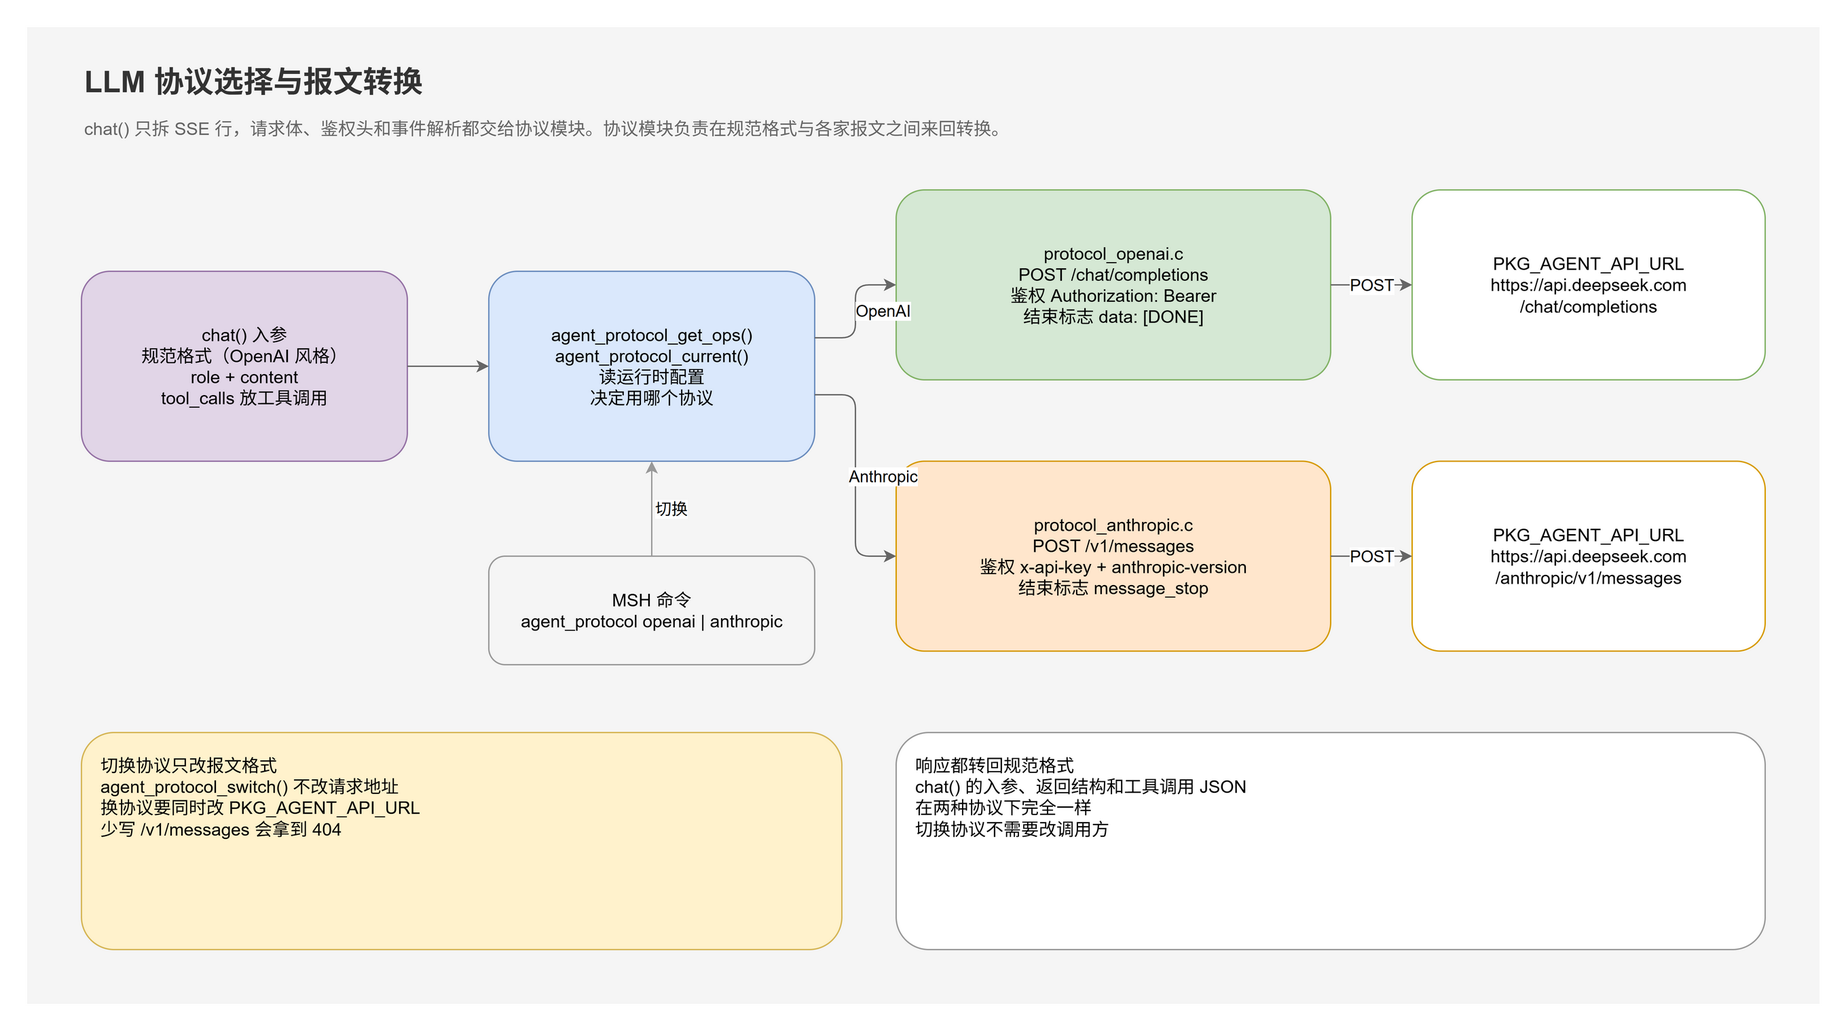
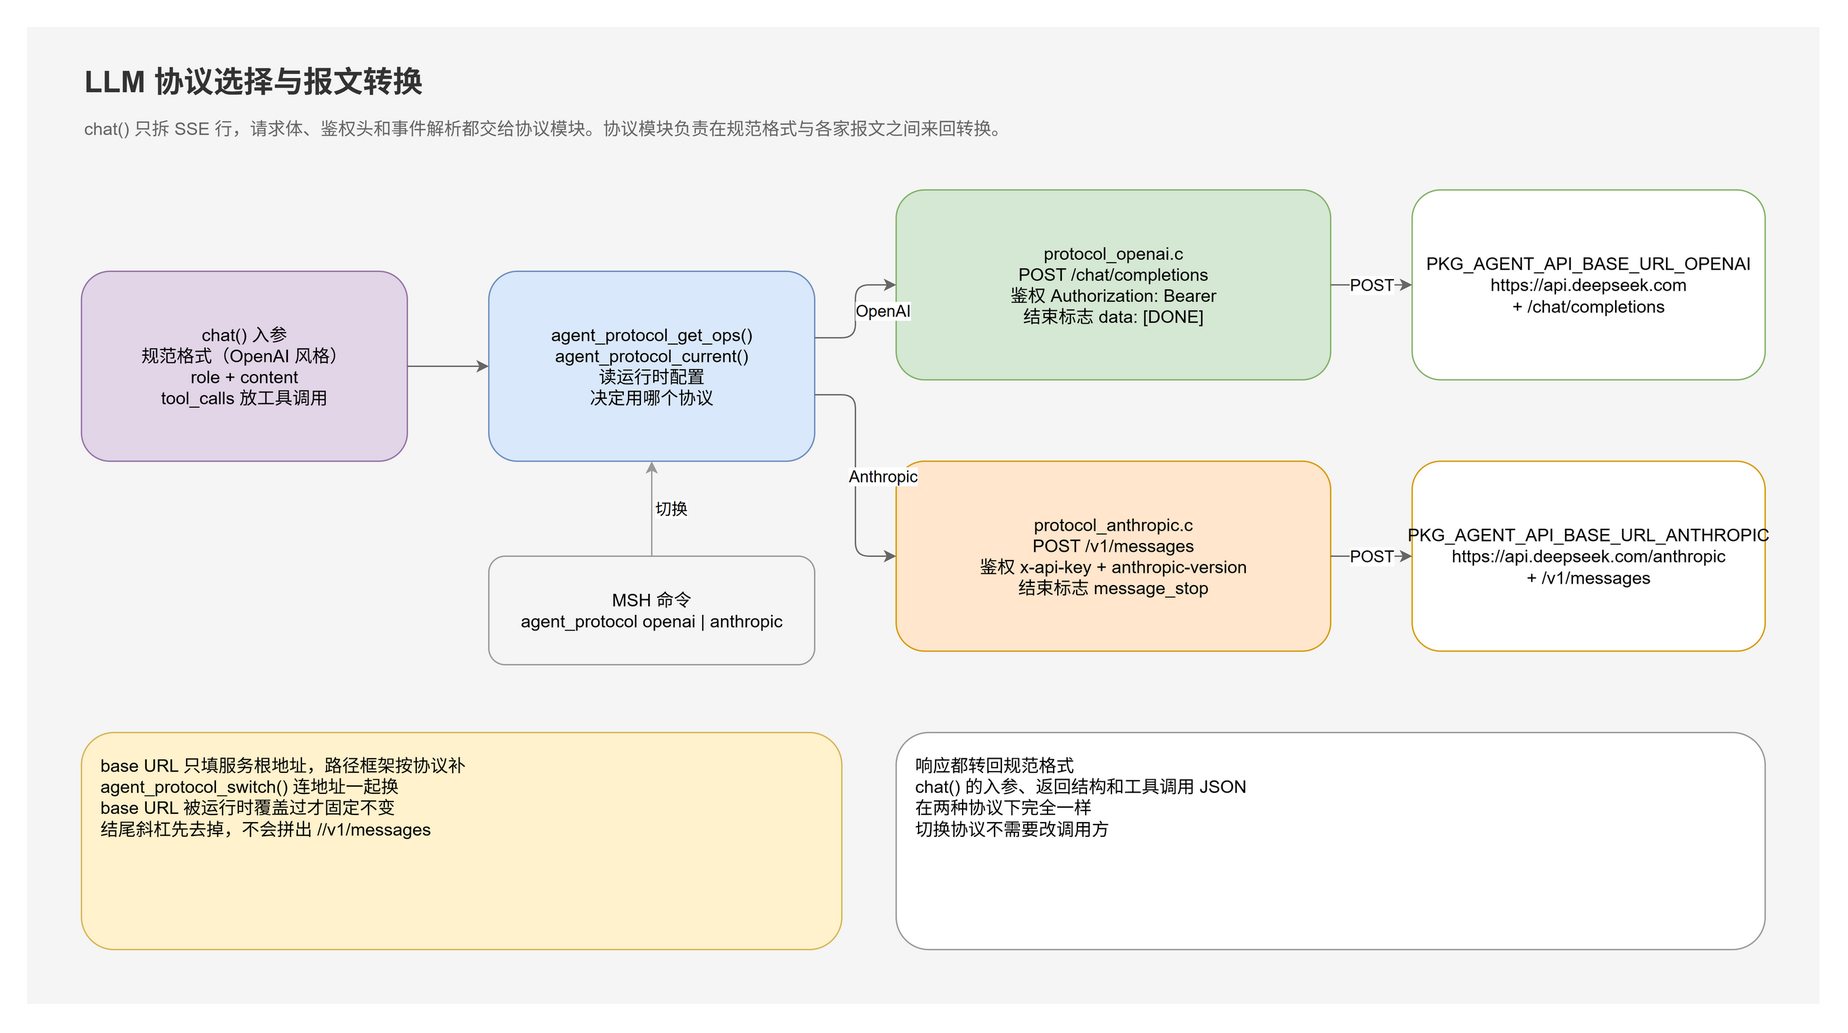
docs: 同步核心路径、两份 base_url 与菜单名
三处同步：

- 路径：文档里引用的 src/*.c 与 inc/*.h 改成 src/core/ 与 inc/core/，
  涵盖 README、api、framework、tool_device、tool_guide、tool_mqtt。
- 地址：README 与 api、framework 里「API URL 填完整端点」的写法换成
  两份 base URL，补上路径拼接表和切换协议时地址跟着换的说明；
  AgentConfig 一节补 get_dynamic_agent_base_url() 与
  get_dynamic_agent_request_url()。
- 菜单名：Agent Runtime Configuration 改成 Model & Endpoint，
  Audio tts Server Settings 改成 Multimodal → Speech → TTS，
  llm-protocol 图里的提示框同步。

README 快速上手第 2 节整段重写，去掉与「LLM 协议」一节重复的地址表。
两张图重新导出，validate_drawio.py 通过，autocorrect 无改动。

Changed region(s): [[0.0312, 0.7102, 0.2498, 0.8338], [0.7494, 0.4941, 0.968, 0.5867], [0.7807, 0.247, 0.9368, 0.3088]]

diff --git a/README.md b/README.md
@@ -25,22 +25,15 @@
 
 ### 2. 填接口地址与协议
 
-`Agent Runtime Configuration` 这一组要填三样东西：
+`Model & Endpoint` 这一组要填三样东西：
 
 | 配置项 | 说明 |
 |---|---|
 | API Key | 服务商的密钥 |
 | Model Name | 模型名，按服务商的写法填 |
-| API URL | 完整端点，域名加路径 |
+| base URL | 服务根地址，两种协议各一个 |
 
-API URL 填的是完整端点。两种协议各有一个地址，互不通用：
-
-| 协议 | API URL 填什么 |
-|---|---|
-| OpenAI | `https://api.deepseek.com/chat/completions` |
-| Anthropic | `https://api.deepseek.com/anthropic/v1/messages` |
-
-Anthropic SDK 的 base_url 是 `https://api.deepseek.com/anthropic`，那不是请求端点。SDK 会在后面补上 `/v1/messages`，板子直接发 HTTP，没有 SDK 这一层，路径要自己写全。少写 `/v1/messages` 会拿到 404。
+两种协议各有一个 base URL，只填域名加前缀，不带路径。OpenAI 默认 `https://api.deepseek.com`，Anthropic 默认 `https://api.deepseek.com/anthropic`，框架按协议补上 `/chat/completions` 或 `/v1/messages`。两个都填上，切协议时地址跟着换。拼出来的完整地址见[核心机制](#llm-协议)。
 
 协议在 `PKG_AGENT_API_PROTOCOL_SEL` 里选。选 Anthropic 时菜单会多出 `anthropic-version` 和 `max_tokens` 两项。
 
@@ -126,7 +119,7 @@ msh_agent_tts -o /a.wav 今天天气不错
 
 播放需要板上先注册音频设备。合成走的是同步等待，服务端没预热时首帧要等服务端把模型拉起来，实测冷启动 203 s，模型常驻后每句 2～3 s。服务端要先装配好推理链与音色权重，步骤见 [resource/file_server/README.md](resource/file_server/README.md) 第 11 节。
 
-想让每轮回复自动播报，在 `Audio tts Server Settings` 里打开 `Auto play the answer by voice`（`PKG_AGENT_TTS_AUTO_PLAY`）。它依赖 `PKG_AGENT_DRIVER_AUDIO`，默认关闭。打开后一条回复只发一次请求，服务端按 1.5 s 一帧往外发，后台线程收一帧播一帧，主循环不等待。兜底提示不发声。
+想让每轮回复自动播报，在 `Multimodal → Speech → TTS` 里打开 `Auto play the answer by voice`（`PKG_AGENT_TTS_AUTO_PLAY`）。它依赖 `PKG_AGENT_DRIVER_AUDIO`，默认关闭。打开后一条回复只发一次请求，服务端按 1.5 s 一帧往外发，后台线程收一帧播一帧，主循环不等待。兜底提示不发声。
 
 音频驱动与多模态开关相互独立。只使用录音、播放时，打开 `Enable Agent Driver Audio` 即可，但 BSP 需要先启用音频设备。
 
@@ -167,20 +160,20 @@ draw.io 源文件：[agent-fsm.drawio](./docs/diagrams/agent-fsm.drawio)
 
 | 组件 | 文件 | 职责 |
 |---|---|---|
-| AgentLoop | `src/AgentLoop.c` | 初始化、对话主循环、组装全局状态并启动状态机、清理 |
-| AgentFsm | `src/AgentFsm.c` | 工具调用状态机：决策、校验、执行、观察、护栏、收尾 |
-| Chat | `src/chat.c` | 发请求、拆 SSE 行；报文格式交给 `src/utils/protocol/` 下的协议模块 |
-| MessageHub | `src/MessageHub.c` | 双邮箱消息传递，支持超时接收 |
-| Context | `src/context.c` | 维护 system / user / assistant / tool 消息 |
-| Tool | `src/tool_base.c`、`src/tool_func.c` | 工具链表的注册、查找、执行与清理；模块表在 `src/utils/tool_json.c` |
+| AgentLoop | `src/core/AgentLoop.c` | 初始化、对话主循环、组装全局状态并启动状态机、清理 |
+| AgentFsm | `src/core/AgentFsm.c` | 工具调用状态机：决策、校验、执行、观察、护栏、收尾 |
+| Chat | `src/core/chat.c` | 发请求、拆 SSE 行；报文格式交给 `src/utils/protocol/` 下的协议模块 |
+| MessageHub | `src/core/MessageHub.c` | 双邮箱消息传递，支持超时接收 |
+| Context | `src/core/context.c` | 维护 system / user / assistant / tool 消息 |
+| Tool | `src/core/tool_base.c`、`src/core/tool_func.c` | 工具链表的注册、查找、执行与清理；模块表在 `src/utils/tool_json.c` |
 | Channels | `src/channels/` | CLI、WebNet、Debug 通道实现 |
-| AgentConfig | `src/AgentConfig.c` | 编译期默认值与运行时配置 |
+| AgentConfig | `src/core/AgentConfig.c` | 编译期默认值与运行时配置 |
 | Utils | `src/utils/` | 多模态转换、文件上传下载、STT 与 TTS、文本注入、webclient 超时封装 |
 | AgentAudio | `src/driver/audio/AgentAudio.c` | 播放与录音命令封装 |
 | MQTT | `src/tools/tool_mqtt/` | MQTT 连接、订阅、过滤、规则与历史缓存 |
 | Device | `src/tools/tool_device/` | 设备框架工具，通用层 7 个工具加 8 个设备类模块，各模块自己登记到 `src/utils/tool_json.c` 的模块表 |
 | MCP | `src/tools/tool_mcp/` | MCP 客户端：握手、取远端工具表、把远端工具注册进 agent 工具表 |
-| Skill | `src/skill.c`、`src/tools/tool_skill.c` | 内嵌技能注册表、技能目录与加载工具 |
+| Skill | `src/core/skill.c`、`src/tools/tool_skill.c` | 内嵌技能注册表、技能目录与加载工具 |
 
 ### 目录结构
 
@@ -204,18 +197,16 @@ draw.io 源文件：[agent-fsm.drawio](./docs/diagrams/agent-fsm.drawio)
 
 对话层支持两种报文格式，实现放在 `src/utils/protocol/`，按协议一个文件：
 
-| 协议 | 端点地址 | 鉴权 | 结束标志 |
-|---|---|---|---|
-| OpenAI | `https://api.deepseek.com/chat/completions` | `Authorization: Bearer` | `data: [DONE]` |
-| Anthropic | `https://api.deepseek.com/anthropic/v1/messages` | `x-api-key` 与 `anthropic-version` | `message_stop` 事件 |
+| 协议 | base URL 选项 | 默认值 | 补的路径 | 鉴权 | 结束标志 |
+|---|---|---|---|---|---|
+| OpenAI | `PKG_AGENT_API_BASE_URL_OPENAI` | `https://api.deepseek.com` | `/chat/completions` | `Authorization: Bearer` | `data: [DONE]` |
+| Anthropic | `PKG_AGENT_API_BASE_URL_ANTHROPIC` | `https://api.deepseek.com/anthropic` | `/v1/messages` | `x-api-key` 与 `anthropic-version` | `message_stop` 事件 |
 
-`PKG_AGENT_API_URL` 要填上表里的完整地址。换成别家服务商时，地址、鉴权头和模型名一起改。
-
-Anthropic 的地址多一段路径。SDK 的 base_url 是 `https://api.deepseek.com/anthropic`，SDK 自己补 `/v1/messages`；板子发的是裸 HTTP，路径要写全。
+菜单里填的是服务根地址，不含路径。默认值加上补的路径就是实际请求地址，base URL 结尾的斜杠会先去掉，不会拼出 `//v1/messages`。换成别家服务商时，base URL、鉴权头和模型名一起改。
 
 上下文里的消息统一存 OpenAI 风格的规范格式，协议模块负责转成各自的报文，解析时再转回来，所以两种协议下 `chat()` 的入参、返回结构和工具调用 JSON 完全一样。
 
-菜单里的 `PKG_AGENT_API_PROTOCOL_SEL` 决定默认协议，运行中用 MSH 命令 `agent_protocol openai` 或 `agent_protocol anthropic` 切换，改完下一轮请求就按新协议拼包。这个命令不改地址，切换后要自己把 `PKG_AGENT_API_URL` 换成对应协议的端点。
+菜单里的 `PKG_AGENT_API_PROTOCOL_SEL` 决定默认协议，运行中用 MSH 命令 `agent_protocol openai` 或 `agent_protocol anthropic` 切换，改完下一轮请求就按新协议拼包。base URL 没被运行时覆盖过时，切协议会跟着换用另一份 Kconfig base URL；覆盖过就固定用覆盖值。
 
 ![LLM 协议选择与报文转换](./docs/diagrams/llm-protocol.png)
 
@@ -318,7 +309,8 @@ menuconfig 路径是 Agent 包 → `Agent Tool: Device Framework`。内核条件
 
 | 选项 | 说明 |
 |---|---|
-| `PKG_AGENT_API_KEY` / `PKG_AGENT_MODEL_NAME` / `PKG_AGENT_API_URL` | 默认 API 配置，可在运行时覆盖。URL 填完整端点，OpenAI 用 `https://api.deepseek.com/chat/completions`，Anthropic 用 `https://api.deepseek.com/anthropic/v1/messages` |
+| `PKG_AGENT_API_KEY` / `PKG_AGENT_MODEL_NAME` | 默认 API 配置，可在运行时覆盖 |
+| `PKG_AGENT_API_BASE_URL_OPENAI` / `PKG_AGENT_API_BASE_URL_ANTHROPIC` | 两种协议的服务根地址，默认 `https://api.deepseek.com` 与 `https://api.deepseek.com/anthropic`，不含路径 |
 | `PKG_AGENT_API_PROTOCOL_SEL` | 协议选择，OpenAI 或 Anthropic，默认 OpenAI；运行中可用 `agent_protocol` 命令切换，只改报文格式不改地址 |
 | `PKG_AGENT_ANTHROPIC_VERSION` | Anthropic 的 `anthropic-version` 请求头，默认 `2023-06-01`；仅在菜单选中 Anthropic 时显示 |
 | `PKG_AGENT_ANTHROPIC_MAX_TOKENS` | Anthropic 请求的 `max_tokens` 上限，默认 4096；仅在菜单选中 Anthropic 时显示 |

diff --git a/docs/api.md b/docs/api.md
@@ -22,7 +22,7 @@
 
 ## 1. MessageHub：消息中心与消息数组
 
-头文件：`inc/MessageHub.h` 实现：`src/MessageHub.c`
+头文件：`inc/core/MessageHub.h` 实现：`src/core/MessageHub.c`
 
 ### 1.1 类型
 
@@ -113,18 +113,18 @@ typedef struct MessageHub
 
 ## 2. Chat：LLM 通信
 
-头文件：`inc/chat.h` 实现：`src/chat.c`
+头文件：`inc/core/chat.h` 实现：`src/core/chat.c`
 
 `chat.c` 只处理 HTTP 与 SSE 行拆分，请求体、鉴权头和事件解析都交给协议模块，位置在 `src/utils/protocol/`，统一入口 `inc/utils/protocol.h`。当前协议决定报文格式，切换接口见 2.3。
 
-请求地址填在 `PKG_AGENT_API_URL`。两种协议的地址不一样，板子直接发 HTTP，路径要写全：
+请求地址由「服务根地址 + 协议路径」拼出来。菜单里填两个 base URL，路径框架自己接：
 
-| 协议 | `PKG_AGENT_API_URL` 填什么 |
-|---|---|
-| OpenAI | `https://api.deepseek.com/chat/completions` |
-| Anthropic | `https://api.deepseek.com/anthropic/v1/messages` |
+| 协议 | Kconfig 里的 base URL | 框架补的路径 | 实际请求地址 |
+|---|---|---|---|
+| OpenAI | `PKG_AGENT_API_BASE_URL_OPENAI`，默认 `https://api.deepseek.com` | `/chat/completions` | `https://api.deepseek.com/chat/completions` |
+| Anthropic | `PKG_AGENT_API_BASE_URL_ANTHROPIC`，默认 `https://api.deepseek.com/anthropic` | `/v1/messages` | `https://api.deepseek.com/anthropic/v1/messages` |
 
-Anthropic SDK 的 base_url 是 `https://api.deepseek.com/anthropic`，那不是请求端点。SDK 会在后面补上 `/v1/messages`，板子没有 SDK 这一层。少写这段路径，服务端返回 404。
+`get_dynamic_agent_request_url()` 负责拼接，base URL 结尾的斜杠会先去掉，避免拼出 `//v1/messages`。运行时没有覆盖过 base URL 时，切换协议会跟着换用另一份 base URL；一旦通过 `agent_config_set()` 覆盖过，就固定用覆盖值，切协议不再自动换。
 
 ### 2.1 类型
 
@@ -184,7 +184,7 @@ typedef struct ChatResponse
 
 `agent_api_protocol_t` 有两个值：`AGENT_API_PROTOCOL_OPENAI` 与 `AGENT_API_PROTOCOL_ANTHROPIC`。
 
-`agent_protocol_switch()` 只改报文格式，不改请求地址。切成 Anthropic 之后，`PKG_AGENT_API_URL` 还得换成 `https://api.deepseek.com/anthropic/v1/messages`，否则请求会打到 OpenAI 的路径上。
+`agent_protocol_switch()` 改报文格式，也换请求地址：base URL 没被运行时覆盖过时，会跟着切到另一份 Kconfig base URL。已经用 `agent_config_set()` 覆盖过 base URL 的话，地址就固定在覆盖值上，切协议只换报文格式。
 
 消息在上下文里一律存规范格式，也就是 OpenAI 风格。协议模块负责转成自己的报文，解析时转回规范格式，因此两种协议下 `chat()` 的入参、返回结构和工具调用 JSON 完全一致，切换协议不需要改调用方。
 
@@ -192,7 +192,7 @@ Anthropic 报文与规范格式的对应关系见 [framework.md](./framework.md)
 
 ## 3. Context：上下文管理器
 
-头文件：`inc/context.h` 实现：`src/context.c`
+头文件：`inc/core/context.h` 实现：`src/core/context.c`
 
 ### 3.1 类型
 
@@ -264,7 +264,7 @@ typedef struct Context
 
 ## 4. Tool：工具系统
 
-头文件：`inc/tool_base.h`、`inc/tool_func.h`、`inc/utils/tool_json.h` 实现：`src/tool_base.c`、`src/tool_func.c`、`src/utils/tool_json.c`、`src/tools/*`
+头文件：`inc/core/tool_base.h`、`inc/core/tool_func.h`、`inc/utils/tool_json.h` 实现：`src/core/tool_base.c`、`src/core/tool_func.c`、`src/utils/tool_json.c`、`src/tools/*`
 
 ### 4.1 类型
 
@@ -422,7 +422,7 @@ typedef struct AgentToolList
 
 ### 4.7 Agent 运行时访问器
 
-头文件：`inc/AgentRuntime.h`
+头文件：`inc/core/AgentRuntime.h`
 
 | 函数 | 说明 |
 |---|---|
@@ -726,14 +726,14 @@ typedef struct
 
 ## 8. AgentConfig：运行时配置
 
-头文件：`inc/AgentConfig.h`，实现：`src/AgentConfig.c`
+头文件：`inc/core/AgentConfig.h`，实现：`src/core/AgentConfig.c`
 
 ```c
 typedef struct agent_runtime_config
 {
     char api_key[AGENT_CFG_API_KEY_MAX];
     char model_name[AGENT_CFG_MODEL_MAX];
-    char api_url[AGENT_CFG_API_URL_MAX];
+    char base_url[AGENT_CFG_BASE_URL_MAX];
     agent_api_protocol_t protocol;
     rt_bool_t is_configured;
 } rt_align(RT_ALIGN_SIZE) agent_runtime_config_t;
@@ -742,10 +742,11 @@ typedef struct agent_runtime_config
 | 函数 | 说明 |
 |---|---|
 | `agent_runtime_config_t *agent_config_get(void)` | 取静态配置指针 |
-| `void agent_config_set(const char *api_key, const char *model_name, const char *api_url)` | 热更新配置，参数可为 `RT_NULL` |
+| `void agent_config_set(const char *api_key, const char *model_name, const char *base_url)` | 热更新配置，参数可为 `RT_NULL` |
 | `const char *get_dynamic_agent_api_key(void)` | 优先返回运行时值，否则返回 `PKG_AGENT_API_KEY` |
 | `const char *get_dynamic_agent_model_name(void)` | 同上，回退 `PKG_AGENT_MODEL_NAME` |
-| `const char *get_dynamic_agent_api_url(void)` | 同上，回退 `PKG_AGENT_API_URL` |
+| `const char *get_dynamic_agent_base_url(void)` | 同上，回退当前协议对应的 `PKG_AGENT_API_BASE_URL_*` |
+| `const char *get_dynamic_agent_request_url(void)` | base URL 加协议路径，见第 2 节的拼接表。返回内部静态缓冲，同一时刻只供一个请求线程用 |
 | `agent_api_protocol_t get_dynamic_agent_api_protocol(void)` | 当前协议，默认取 `PKG_AGENT_API_PROTOCOL_SEL` 选中的那个 |
 | `void agent_config_set_protocol(agent_api_protocol_t protocol)` | 切换协议 |
 
@@ -755,7 +756,7 @@ typedef struct agent_runtime_config
 
 ## 9. Prompt：系统提示词
 
-头文件：`inc/prompt.h` 实现：`src/prompt.c`
+头文件：`inc/core/prompt.h` 实现：`src/core/prompt.c`
 
 | 函数 | 说明 |
 |---|---|
@@ -789,7 +790,7 @@ typedef struct agent_runtime_config
 
 ## 12. Skill：技能模块
 
-头文件：`inc/skill.h` 实现：`src/skill.c`
+头文件：`inc/core/skill.h` 实现：`src/core/skill.c`
 工具：`src/tools/tool_skill.c`，文件末尾用 `AGENT_TOOL_MODULE_EXPORT(skill, skill_tools)` 登记，工具名是 `skill`
 
 ### 12.1 类型
@@ -830,9 +831,9 @@ struct agent_skill
 
 ## 13. AgentFsm：工具调用状态机
 
-头文件：`inc/AgentFsm.h` 实现：`src/AgentFsm.c`
+头文件：`inc/core/AgentFsm.h` 实现：`src/core/AgentFsm.c`
 
-这个模块只被 `src/AgentLoop.c` 调用。状态机不碰邮箱和 TTS，输出由 `AgentFsmOps` 注入。节点与边的流转见 [framework.md](./framework.md) 3.1。
+这个模块只被 `src/core/AgentLoop.c` 调用。状态机不碰邮箱和 TTS，输出由 `AgentFsmOps` 注入。节点与边的流转见 [framework.md](./framework.md) 3.1。
 
 ### 13.1 宏
 

diff --git a/docs/tool_mqtt.md b/docs/tool_mqtt.md
@@ -495,10 +495,10 @@ payload: {"temp":25}
 
 | 位置 | 改动 |
 |---|---|
-| `inc/AgentRuntime.h`（新增） | `agent_get_message_hub()` / `agent_is_running()` / `agent_is_busy()`：供工具层注入消息并做错峰 |
+| `inc/core/AgentRuntime.h`（新增） | `agent_get_message_hub()` / `agent_is_running()` / `agent_is_busy()`：供工具层注入消息并做错峰 |
 | `inc/utils.h` + `src/utils/message.c` | **公共注入入口 `agent_inject_text()`**：把一段文本作为用户消息交给 agent。原为 MQTT 模块私有的 `mqtt_inject_text()`，现提升为框架公共 API，任何工具/驱动都能复用（MQTT 路由线程仍然调用它，`tool_mqtt_route.c` 只保留本模块自己的注入计数 `s_inject_total` 与错峰时间戳 `s_last_inject_tick`） |
-| `src/AgentLoop.c` | 实现上述访问器；`cleanup_agent` 先摘除 hub 全局引用再销毁（避免注入方访问已释放对象）；输出 mailbox 满时释放消息（避免泄漏） |
-| `src/AgentFsm.c` | 工具调用状态机：请求失败自动重试 3 次；工具循环防呆（重复调用跳过、上限 6、强制文本收尾） |
+| `src/core/AgentLoop.c` | 实现上述访问器；`cleanup_agent` 先摘除 hub 全局引用再销毁（避免注入方访问已释放对象）；输出 mailbox 满时释放消息（避免泄漏） |
+| `src/core/AgentFsm.c` | 工具调用状态机：请求失败自动重试 3 次；工具循环防呆（重复调用跳过、上限 6、强制文本收尾） |
 | `inc/tools/tools.h` | `#ifdef PKG_AGENT_TOOL_MQTT_ENABLE` 下包含 `tool_mqtt.h` |
 | `src/tools/tool_mqtt/tool_mqtt_tools.c` | 七个工具的描述与参数构造函数、描述符表，文件末尾用 `AGENT_TOOL_MODULE_EXPORT(mqtt, mqtt_tools)` 登记；本文件只在 `PKG_AGENT_TOOL_MQTT_ENABLE` 打开时参与编译 |
 | `SConscript` | 启用宏后遍历 `src/tools/tool_mqtt/*.c` 编译，并加入 `inc/tools/tool_mqtt` 头文件路径 |
@@ -626,8 +626,8 @@ gdb 给出的关键信息：
 
 | 问题 | 现象 | 修复 |
 |---|---|---|
-| `PKG_AGENT_STREAM_LINE_BUFSZ` 仅 256 字节 | **模型不调用工具**：带 `tool_calls` 的 SSE 报文行实测 310+ 字节，超长整行被静默丢弃，框架认为模型没发起调用，直接把「我准备调用工具」的文本当成最终回答 | 该值提到 1024；同时改为「超长行告警并跳过」而非静默丢弃（`src/chat.c`） |
-| 推理字段名不兼容 | 提供方返回 `reasoning_content`，而 `chat.c` 只认 `reasoning`，导致思考过程全丢（界面只剩空白回复） | 两个字段名都支持（`src/chat.c`） |
+| `PKG_AGENT_STREAM_LINE_BUFSZ` 仅 256 字节 | **模型不调用工具**：带 `tool_calls` 的 SSE 报文行实测 310+ 字节，超长整行被静默丢弃，框架认为模型没发起调用，直接把「我准备调用工具」的文本当成最终回答 | 该值提到 1024；同时改为「超长行告警并跳过」而非静默丢弃（`src/core/chat.c`） |
+| 推理字段名不兼容 | 提供方返回 `reasoning_content`，而 `chat.c` 只认 `reasoning`，导致思考过程全丢（界面只剩空白回复） | 两个字段名都支持（`src/core/chat.c`） |
 | 工具调用分片字段为 `null` | 流式后续分片形如 `{"index":0,"id":null,"type":null,"function":{"name":"","arguments":"..."}}`，原实现按「字段必须齐全」判断并直接取 `valuestring`，会漏拼接/踩空指针 | 分片容错：`index` 缺失按 0、`id`/`name` 取首个非空分片、`arguments` 分片拼接；最终统一归一化（缺失 `id` 用 `call_<index>` 兜底、空 `arguments` 用 `{}` 兜底），保证下游 `tool_call_id` 与参数始终有效 |
 | CLI 通道线程栈 1024 字节 | 在 CLI 通道下输入较长的一句话后出现 `_rt_mutex_take: scheduler is not available` 断言 | `inc/channels/CLI.h` 的 `CLI_THREAD_STACK_SIZE` 改为 4096 |
 | lwIP `tcpip_thread` 栈 2048 字节 | 网络流量较大时内核栈检查告警/断言 | `RT_LWIP_TCPTHREAD_STACKSIZE` 提到 4096、`RT_LWIP_ETHTHREAD_STACKSIZE` 提到 2048 |

diff --git a/docs/tool_guide.md b/docs/tool_guide.md
@@ -189,7 +189,7 @@ AGENT_TOOL_MODULE_EXPORT(add, add_tools)
 
 宏生成模块描述符，并用 `INIT_COMPONENT_EXPORT` 在内核组件初始化阶段调 `agent_tool_module_add()`，把模块登记进 `src/utils/tool_json.c` 的模块表。`init_tools()` 调一次 `agent_tool_register_modules()`，遍历模块表把每个工具挂上工具链表。模块表容量 24 项。
 
-`src/tools/*.c` 由 `SConscript` 自动收录，不需要改构建脚本。加一个工具也不用动 `src/tool_func.c` 和 `inc/tools/tools.h`。只有包外还要直接调用这个执行函数时，才需要新建头文件并加进 `tools.h`，`tool_add.h` 就是这种情况。
+`src/tools/*.c` 由 `SConscript` 自动收录，不需要改构建脚本。加一个工具也不用动 `src/core/tool_func.c` 和 `inc/tools/tools.h`。只有包外还要直接调用这个执行函数时，才需要新建头文件并加进 `tools.h`，`tool_add.h` 就是这种情况。
 
 ## 4. 示例：求余工具 mod
 
